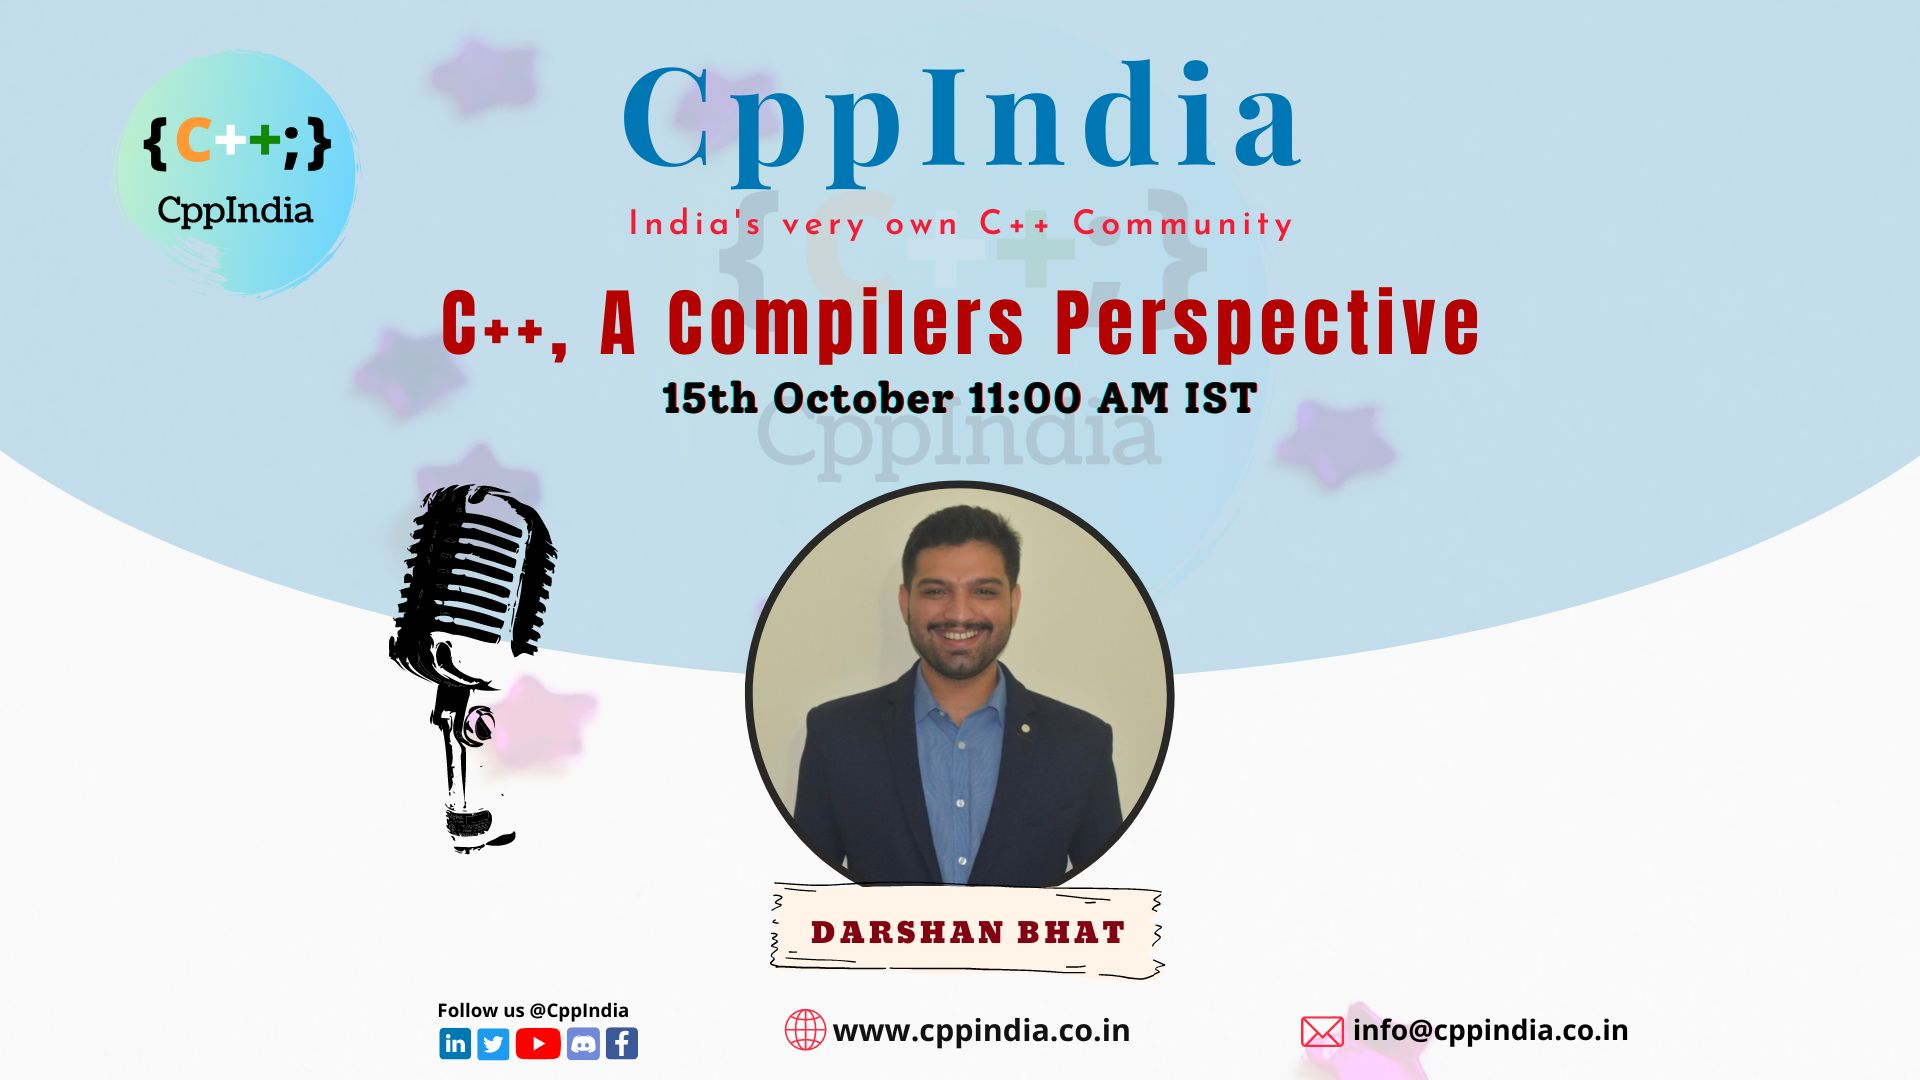
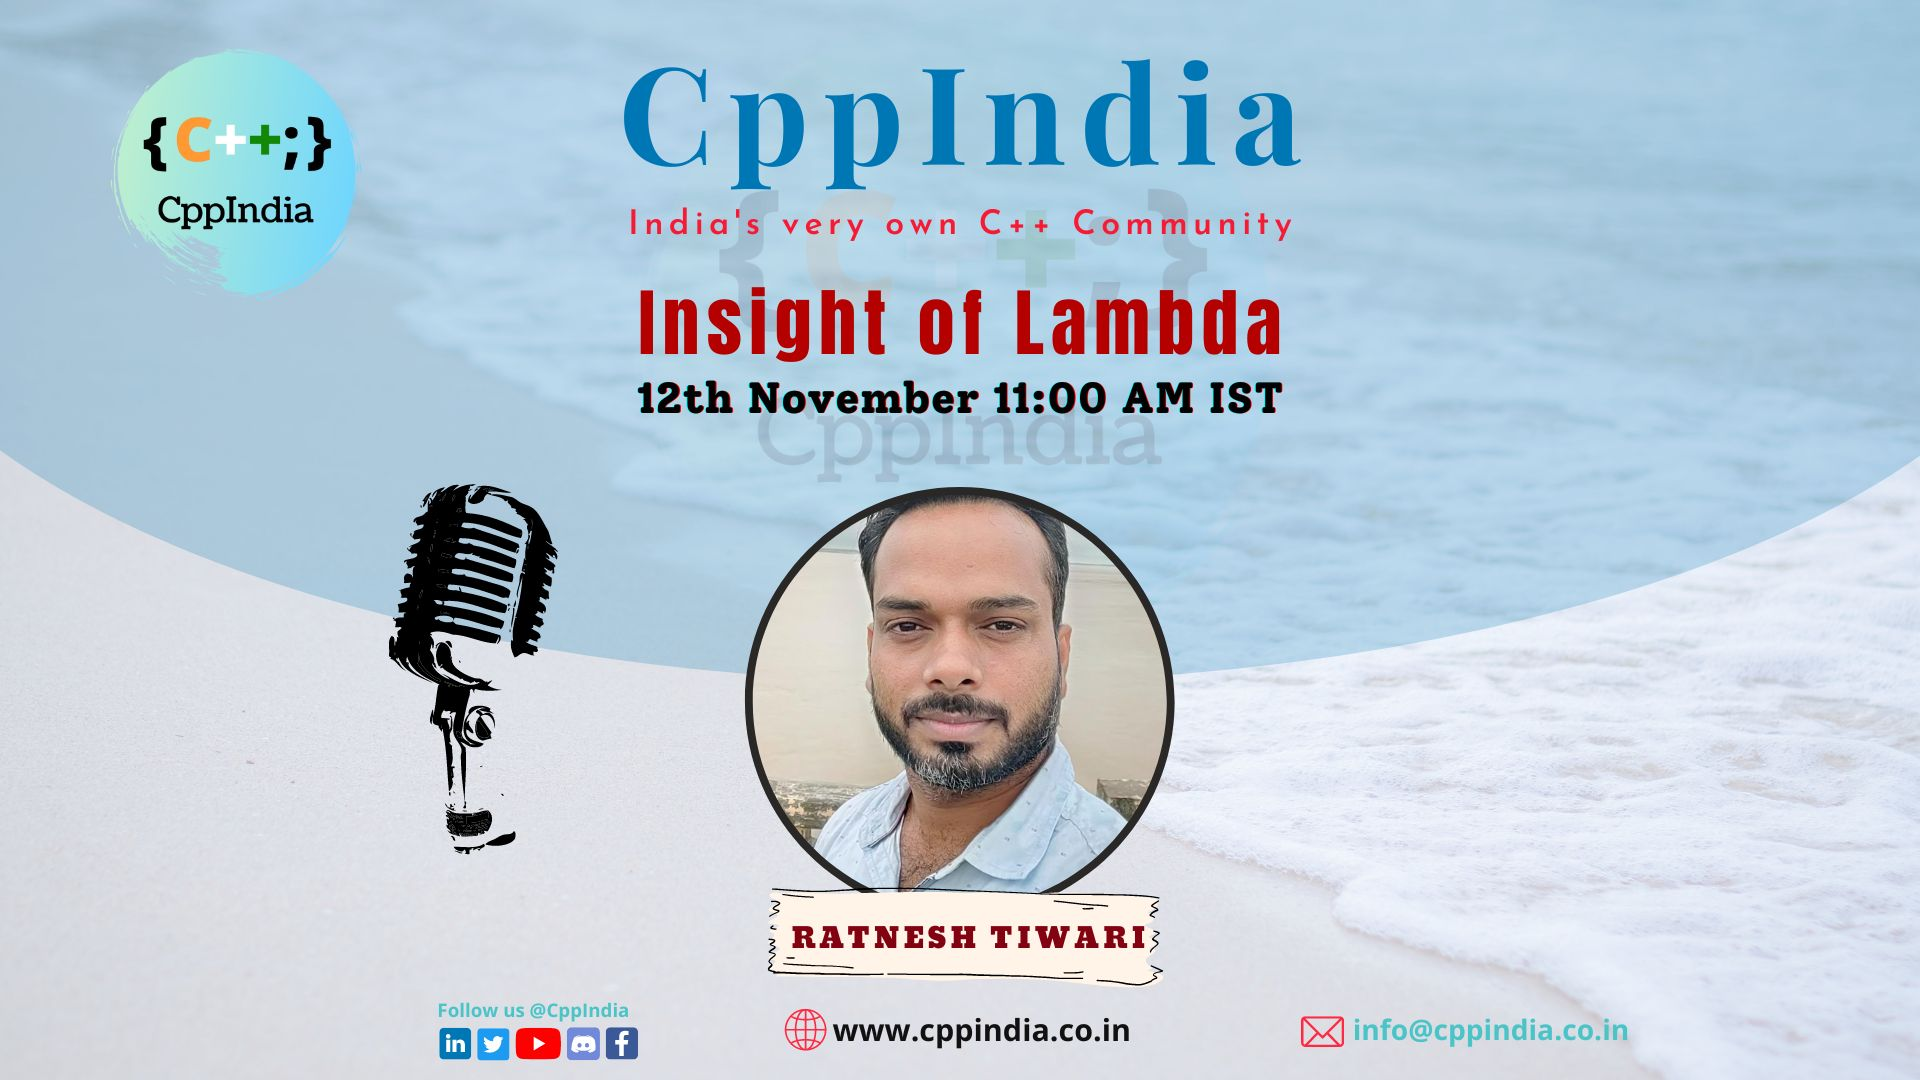
Add session post for Insight of Lambda

diff --git a/TechTalk/2022.md b/TechTalk/2022.md
@@ -12,7 +12,7 @@ speakers: false
 ---
 | Date      |  Topic    | Presenter | Resources |
 |:---:|:---:|:---:|:---:|
-| 2022-10-01 | C++, A Compilers Perspective | [Darshan Bhat](https://www.linkedin.com/in/darshan-bhat-16660941/){:target="_blank"} | [video](https://www.youtube.com/channel/UCwB-WjSJI2D97YZcACFxJDw){:target="_blank"}, [slides](https://github.com/CppIndia-UserGroup/CppIndia-SessionDocuments/tree/master/2022/10-15){:target="_blank"}|
+| 2022-10-15 | C++, A Compilers Perspective | [Darshan Bhat](https://www.linkedin.com/in/darshan-bhat-16660941/){:target="_blank"} | [video](https://www.youtube.com/channel/UCwB-WjSJI2D97YZcACFxJDw){:target="_blank"}, [slides](https://github.com/CppIndia-UserGroup/CppIndia-SessionDocuments/tree/master/2022/10-15){:target="_blank"}|
 | 2022-10-01 | Thinking in Classes | [Dheeraj Jha](https://www.linkedin.com/in/jhadheeraj/){:target="_blank"} | [video](https://www.youtube.com/channel/UCwB-WjSJI2D97YZcACFxJDw){:target="_blank"}, [slides](https://github.com/CppIndia-UserGroup/CppIndia-SessionDocuments/tree/master/2022/10-01){:target="_blank"}|
 | 2022-09-17 | How to create your own programming language | [Hemil Ruparel](https://www.linkedin.com/in/hemil-ruparel-2aa513166/){:target="_blank"} | [video](https://www.youtube.com/channel/UCwB-WjSJI2D97YZcACFxJDw){:target="_blank"}, [slides](https://github.com/CppIndia-UserGroup/CppIndia-SessionDocuments/tree/master/2022/09-17){:target="_blank"}|
 | 2022-06-18 | Unix-style \| Composable \| Operations \| in \| C++ | [Ankur Satle](https://www.linkedin.com/in/ankursatle){:target="_blank"} | [video](https://www.youtube.com/watch?v=WX9DjeCWDbs){:target="_blank"}, [slides](https://github.com/CppIndia-UserGroup/CppIndia-SessionDocuments/tree/master/2022/06-18){:target="_blank"}|
